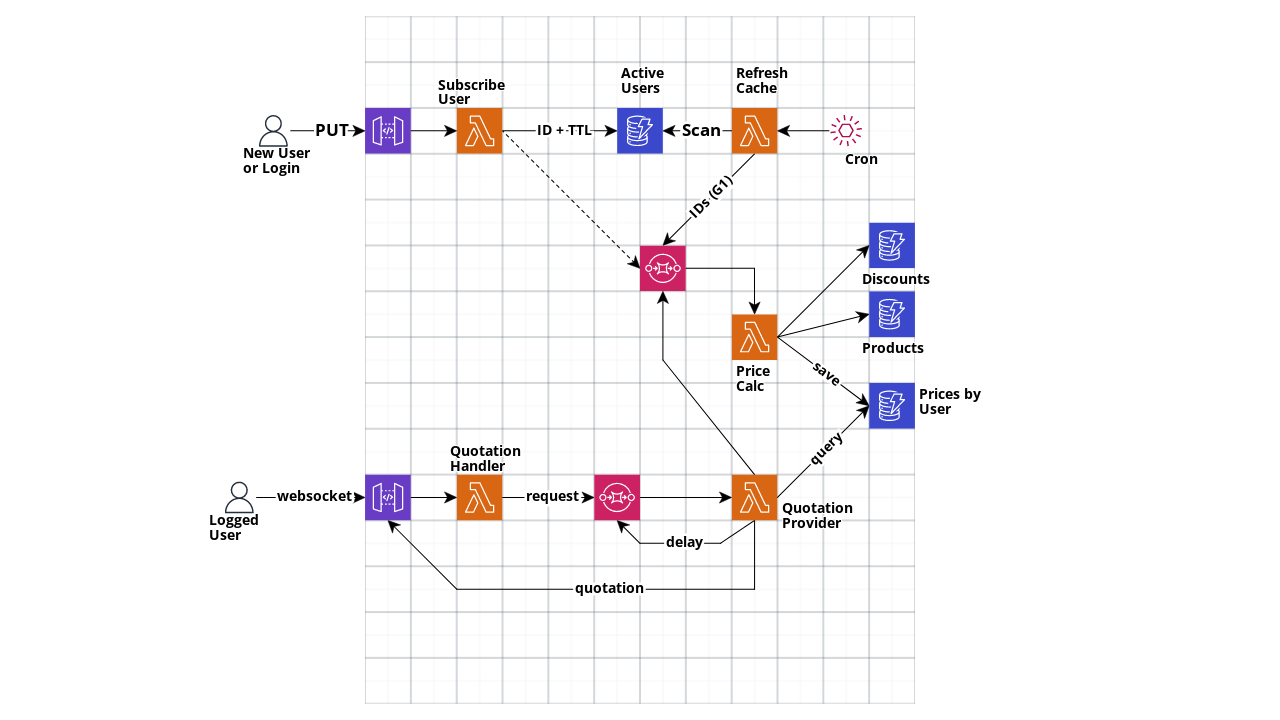
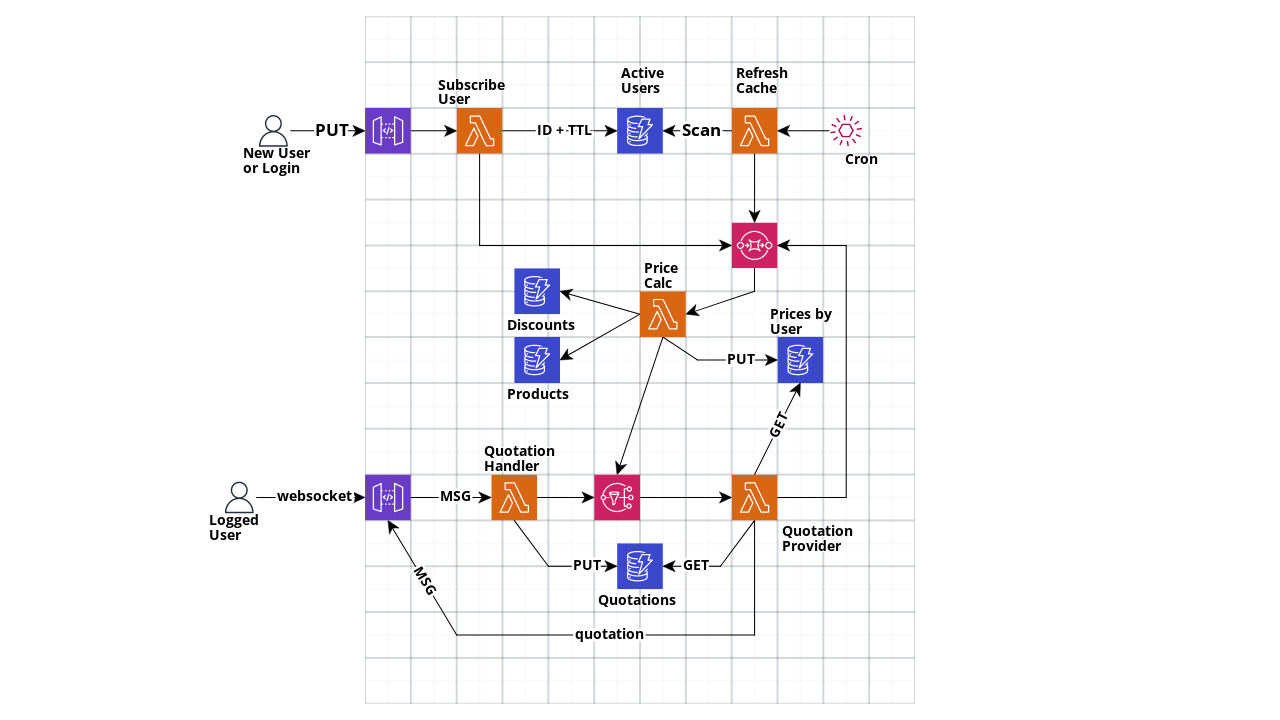
doc

diff --git a/lambda_quotation_provider/gateway/sqs.go b/lambda_quotation_provider/gateway/sqs.go
@@ -2,7 +2,6 @@ package gateway
 
 import (
 	"context"
-	"encoding/json"
 	"log"
 	"os"
 
@@ -12,31 +11,6 @@ import (
 	"github.com/ricardo-comar/organic-cache/model"
 )
 
-func RetryMessage(ctx context.Context, cli *sqs.Client, msgId *string, retryCount *string, message interface{}) (*string, error) {
-
-	body, _ := json.Marshal(message)
-	res, err := cli.SendMessage(ctx, &sqs.SendMessageInput{
-		MessageAttributes: map[string]types.MessageAttributeValue{
-			"RequestId": {
-				DataType:    aws.String("String"),
-				StringValue: msgId,
-			},
-			"RetryCount": {
-				DataType:    aws.String("String"),
-				StringValue: retryCount,
-			},
-		},
-		MessageBody: aws.String(string(body)),
-		QueueUrl:    aws.String(os.Getenv("QUOTATION_QUEUE")),
-	})
-
-	if err != nil {
-		log.Fatal(err)
-		return nil, err
-	}
-
-	return res.MessageId, nil
-}
 func RecalcMessage(ctx context.Context, cli *sqs.Client, msg *model.MessageEntity) (*string, error) {
 
 	res, err := cli.SendMessage(ctx, &sqs.SendMessageInput{

diff --git a/README.md b/README.md
@@ -18,17 +18,14 @@ If the user stops to consume the API after a pre determined time, that price tab
 1. For each message on SQS **Refresh Queue**, Lambda **Price Calc** scan for all DynamoDB **Products** and query for user's DynamoDB **Discounts´**, calculating user's price table (with original and final prices) and saving into DybanoDB **Prices by User**. 
 
 ### Quotation Available
-1. To request a quotation, the user can call the ***Quotation POST***, sending his ID and a list of products IDs and quantities. 
-1. The Lambda **Quotation Handler** sends a message to SQS **Quotation Queue** with the quotation data, and waits for a available response in Elasticache (for education purposes, I used Hazelcast instead, because of it's cabapility of working together with localstack in docker-compose, and it's funcionality of topic Pub/Sub) 
-1. The Lambda **Quotation Provider** queries for the corresponding prices table from the receiving user's ID. Using the user's price table and products final prices and expected quantities, generates the quotation and put into Elasticache.
-1. Lambda **Quotation Handler** that's waiting for the response, receives the quotation and returns to the user.
+1. To request a quotation, the user can call the ***Quotation Websocket***, sending his ID and a list of products IDs and quantities. You can test it localy, as described below. 
+1. The Lambda **Quotation Handler** saves the quotation data into DybamoDB **Quotations** and sends a message to SNS **Quotations Topic** with the quotation data, and returns a message *quotation under analisys*. 
+1. The Lambda **Quotation Provider** is notified by SNS and, queries for the corresponding prices table from the receiving user's ID in DynamoDB **Prices by User**. 
+1. Using the user's price table and products final prices and expected quantities, generates the quotation and notifies the client by it's *ConnectionID*, using API Gateway response channel.
 
 ### Quotation Unavailable
-1. To request a quotation, the user can call the ***Quotation POST***, sending his ID and a list of products IDs and quantities. 
-1. The Lambda **Quotation Handler** sends a message to SQS **Quotation Queue** with the quotation data, and waits for a available response in Elasticache (for education purposes, I used Hazelcast instead, because of it's cabapility of working together with localstack in docker-compose, and it's funcionality of topic Pub/Sub) 
-1. The Lambda **Quotation Provider** queries for the corresponding prices table from the receiving user's ID. If it's not available, sends a message to the SQS **Recalculation Queue**, to be processed ASAP by the Lambda **Price Calc**, and put back the message on SQS **Quotation Queue** to be processed later.
-1. Next time the Lambda **Quotation Provider** receives the message, it queries for the corresponding prices table from the receiving user's ID. If it's not available, put back again the message on SQS **Quotation Queue**, but limited to 10 retries.
-1. If the price table is somewhen available, it's returned (as explained before) to the user. If not, Lambda **Quotation Handler** after 10s stop waiting and returns an HTTP 408 Timeout. 
+1. As described before, if Lambda **Quotation Provider** cannot find the user price table, it sends a message to SQS **Quotation Queue** with a different **group id**, to be processed before the refresh messages :sunglasses:.
+1. When Lambda **Price Calc** receives that message with a **RequestId** attribute, after price calculation it sends a message to SNS **Quotations Topic**, to Lambda **Quotation Provider** run again and be able to reply the quotation response.
 
 
 ## Local setup
@@ -82,7 +79,7 @@ Now eyes on Terminal 1.... A few moments later Lambda **Refresh Cache** will be 
 
 #### Browser - Quotation
 
-Open the file [index.html](doc/index.html), open DevTools (F12) and switch to Console view.
+Open the file [test_page.html](test_page.html), open DevTools (F12) and switch to Console view.
 
 Click on Setup and paste the ***url_quotation*** value into input box, and Click on Close. You should see a message "*opened*" on console view.
 
